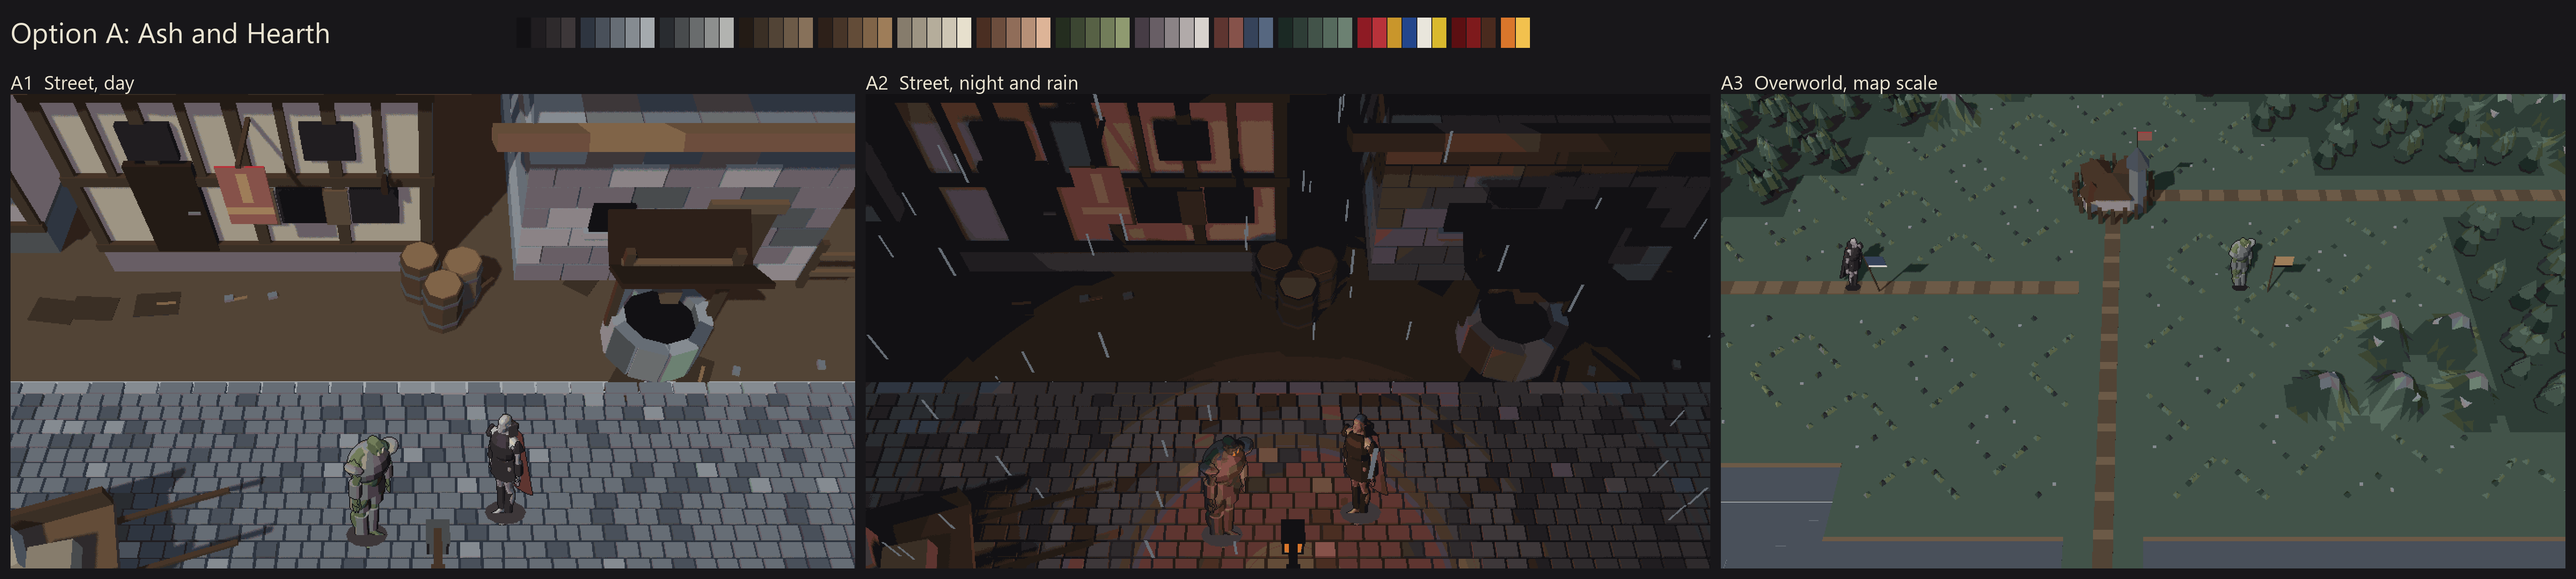
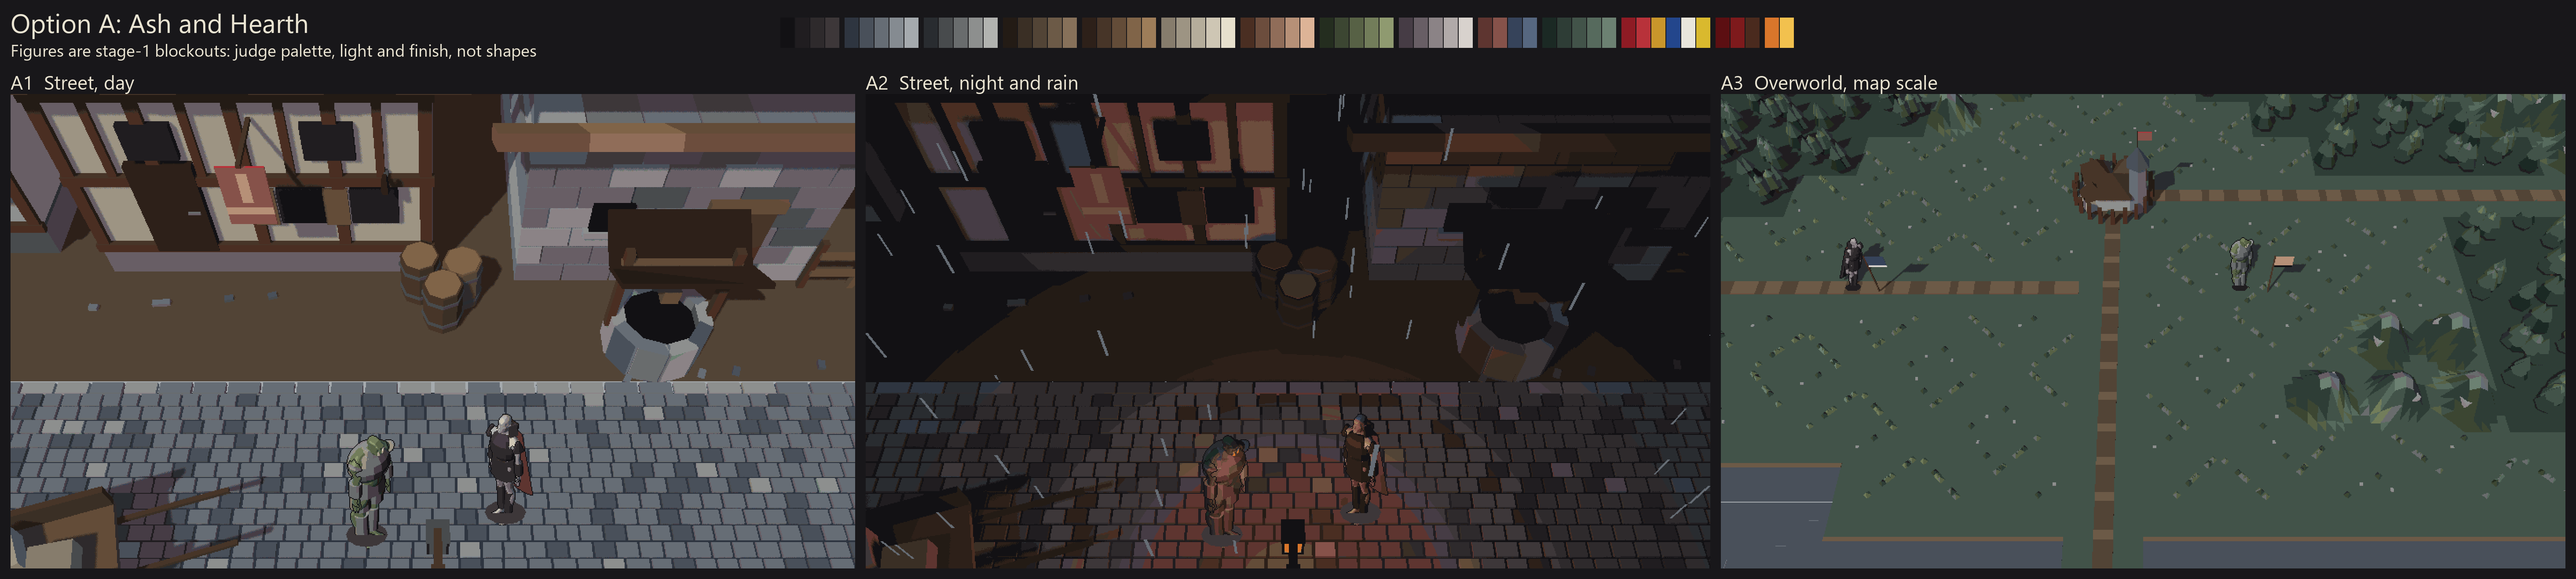
art: look target Lead QC round - flatter orc pauldrons, no puddles or straw, light +5%, board caption
Director 2026-10-15: lighting 5% brighter (sun and ambient energy, palettes unchanged).
Orc head measured 8.76 heads tall (average_m 7.76), so the big-head read is the hunch and neck mass, not head size.

diff --git a/tools/look/build_look_kit.py b/tools/look/build_look_kit.py
@@ -161,13 +161,10 @@ def ground(col):
     mud = [(1.01, P("soil", 2))]
     tris(g, -14.0, 14.0, -12.0, -1.6, 0.6, mud, 0.015)
     tris(g, -14.0, 14.0, 1.9, 7.0, 0.6, mud, 0.015)
-    for k in range(60):  # loose stones, straw and puddles break up the mud
+    for k in range(40):  # loose stones break up the mud
         sx = h(k, 31) * 24.0 - 12.0
         sz = 2.1 + h(k, 37) * 4.0 if k % 2 else -1.8 - h(k, 37) * 2.0
-        kind = k % 3
-        m = P("slate", 2) if kind == 0 else P("timber", 3) if kind == 1 else P("soil", 1)
-        size = (0.14, 0.1, 0.06) if kind == 0 else (0.3, 0.05, 0.015) if kind == 1 else (0.7, 0.45, 0.01)
-        g.box(size, (sx, -sz, size[2] / 2), m, rot_z=h(k, 41) * math.pi)
+        g.box((0.14, 0.1, 0.06), (sx, -sz, 0.03), P("slate", 2 if k % 3 else 1), rot_z=h(k, 41) * math.pi)
     # kerb stones along the road edges
     for ix in range(-28, 28):
         for z in (-1.65, 1.95):

diff --git a/tools/look/make_boards.py b/tools/look/make_boards.py
@@ -19,6 +19,7 @@ FRAMES = (("day", "1  Street, day"), ("night", "2  Street, night and rain"), ("m
 FRAME_W, FRAME_H = 1920, 1080
 GAP = 24
 HEAD = 150
+CAPTION = "Figures are stage-1 blockouts: judge palette, light and finish, not shapes"
 LABEL = 64
 BG = (24, 23, 26)
 INK = (235, 229, 211)
@@ -39,8 +40,9 @@ def board(caps: Path, key: str) -> Image.Image:
     width = 3 * FRAME_W + 4 * GAP
     img = Image.new("RGB", (width, HEAD + LABEL + FRAME_H + GAP), BG)
     d = ImageDraw.Draw(img)
-    d.text((GAP, 28), f"Option {key}: {pal['name']}", fill=INK, font=font(64))
-    x = GAP + 1150
+    d.text((GAP, 10), f"Option {key}: {pal['name']}", fill=INK, font=font(60))
+    d.text((GAP, 88), CAPTION, fill=INK, font=font(38))
+    x = GAP + 1750
     for ramp in pal["ramps"]:
         for c in ramp["colours"]:
             d.rectangle((x, 40, x + SWATCH - 3, 40 + 2 * SWATCH), fill=c)
